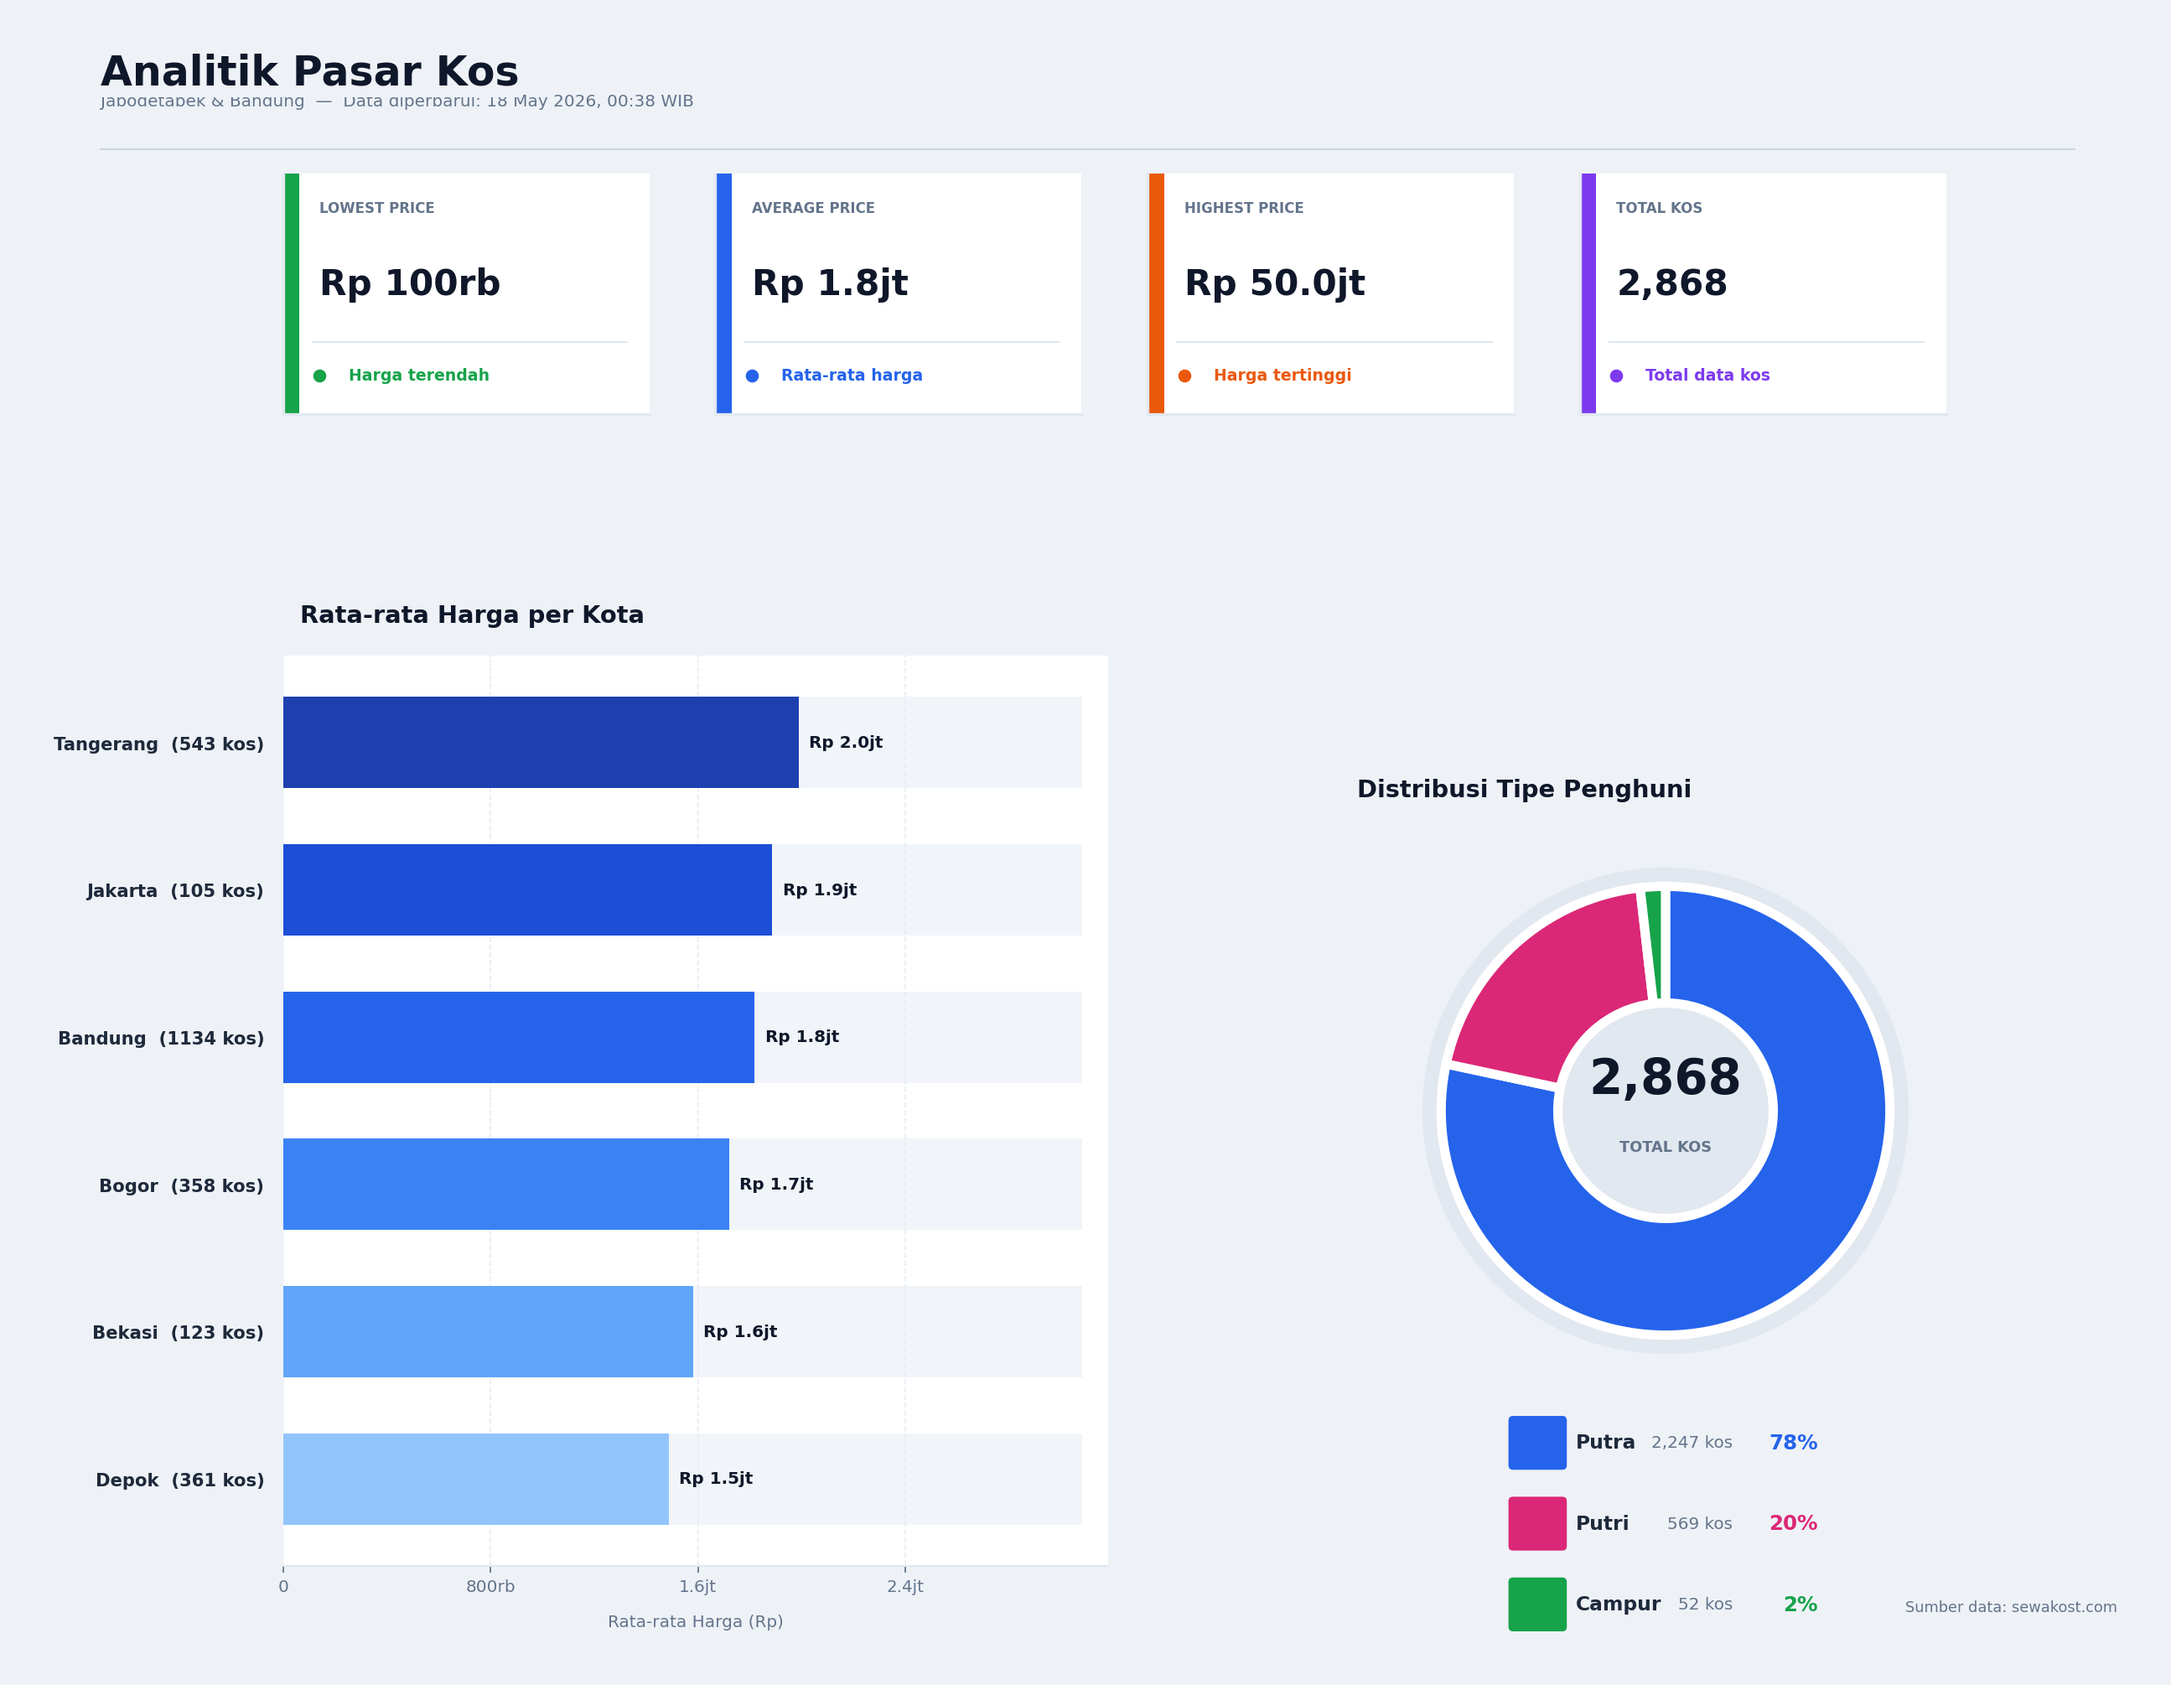
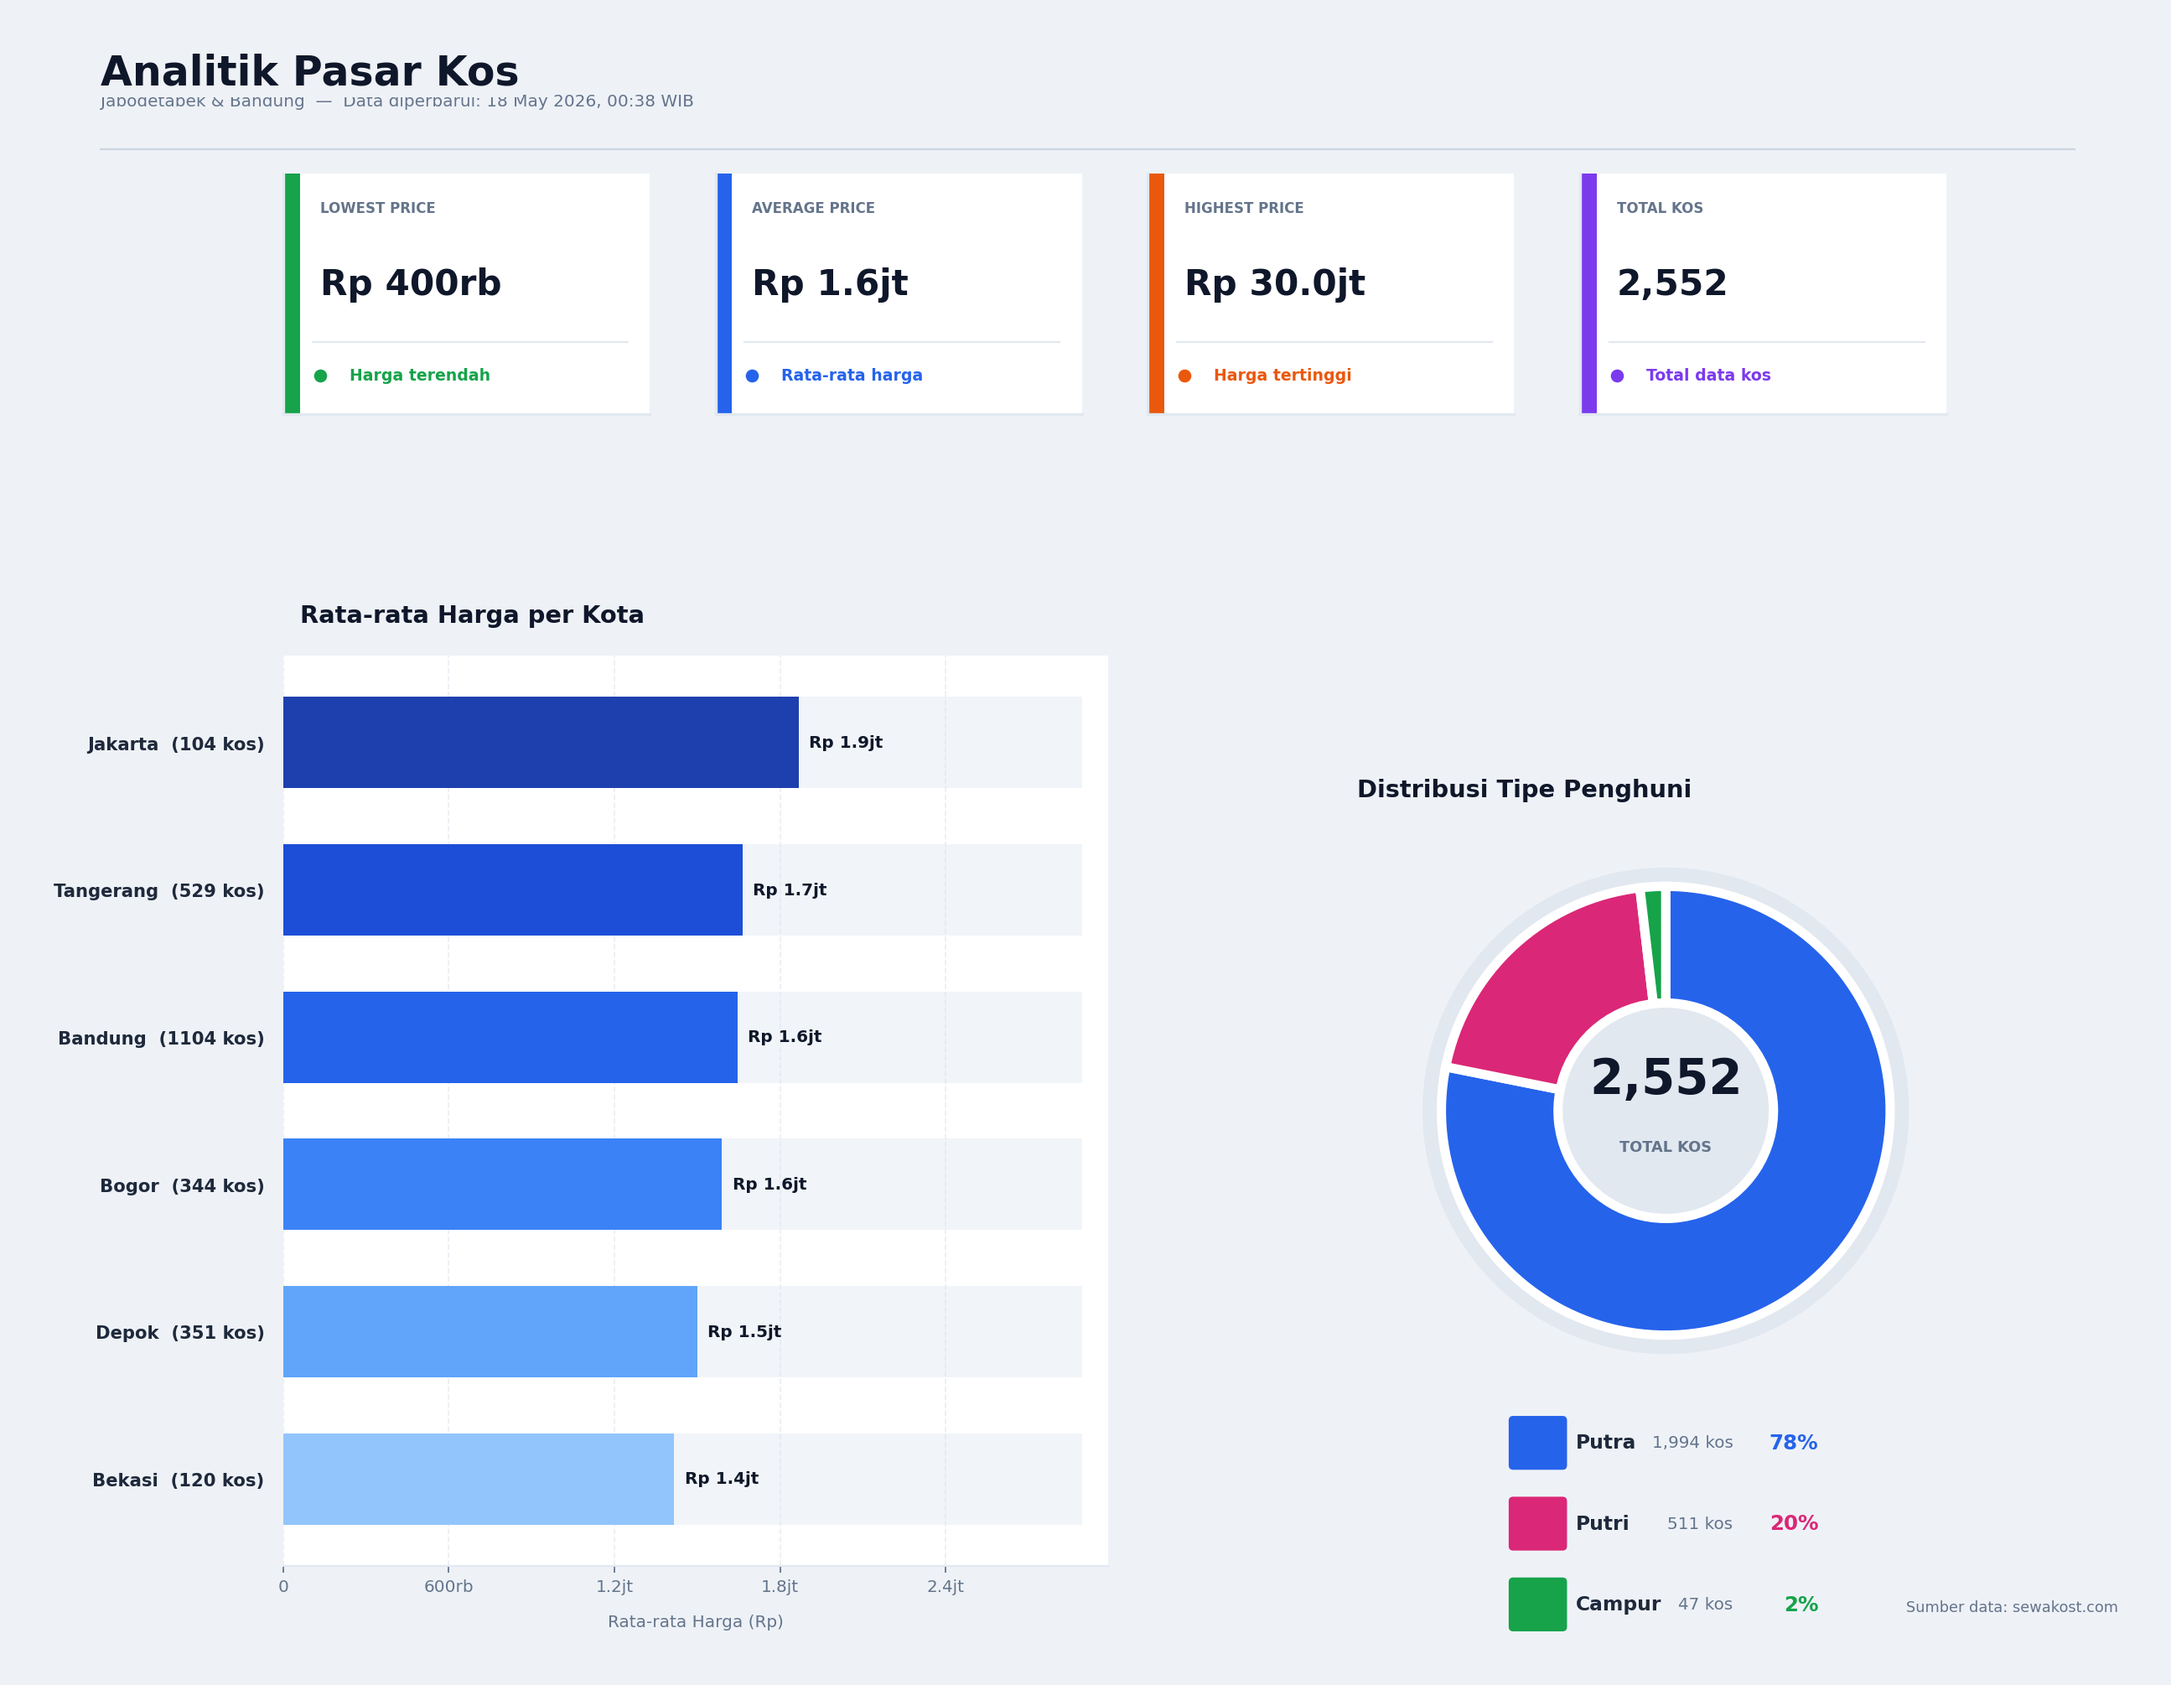
feat: create KosAnalytics class for automated data processing and visual dashboard generation

diff --git a/core/analytics.py b/core/analytics.py
@@ -66,9 +66,32 @@ class KosAnalytics:
 
     def load_data(self):
         with open(self.path, "r", encoding="utf-8") as f:
-            data = json.load(f)
-        print(f"  Data berhasil dimuat: {len(data)} kos")
-        return data
+            raw_data = json.load(f)
+            
+        data_bulanan = []
+        for item in raw_data:
+            nama = str(item.get("nama_kos", "")).lower()
+            harga = str(item.get("harga", "")).lower()
+            
+            # Deteksi indikasi non-bulanan dari teks
+            if any(k in nama for k in ["harian", "transit", "mingguan", "tahunan"]):
+                continue
+            if any(k in harga for k in ["hari", "minggu", "tahun"]):
+                continue
+                
+            # Gunakan ekstrak_harga yang ada untuk mengecek nominal
+            angka = self.ekstrak_harga(item.get("harga", ""))
+            
+            # Asumsi kos bulanan normalnya >= 400rb dan <= 30jt
+            # Jika terlalu kecil biasanya harian (meski tanpa kata 'harian')
+            # Jika terlalu besar biasanya tahunan (meski tanpa kata 'tahun')
+            if angka is None or angka < 400000 or angka > 30000000:
+                continue
+                
+            data_bulanan.append(item)
+            
+        print(f"  Data bulanan disaring: {len(data_bulanan)} kos (dari total {len(raw_data)})")
+        return data_bulanan
 
     def ambil_tanggal_scraping(self) -> str:
         try:
